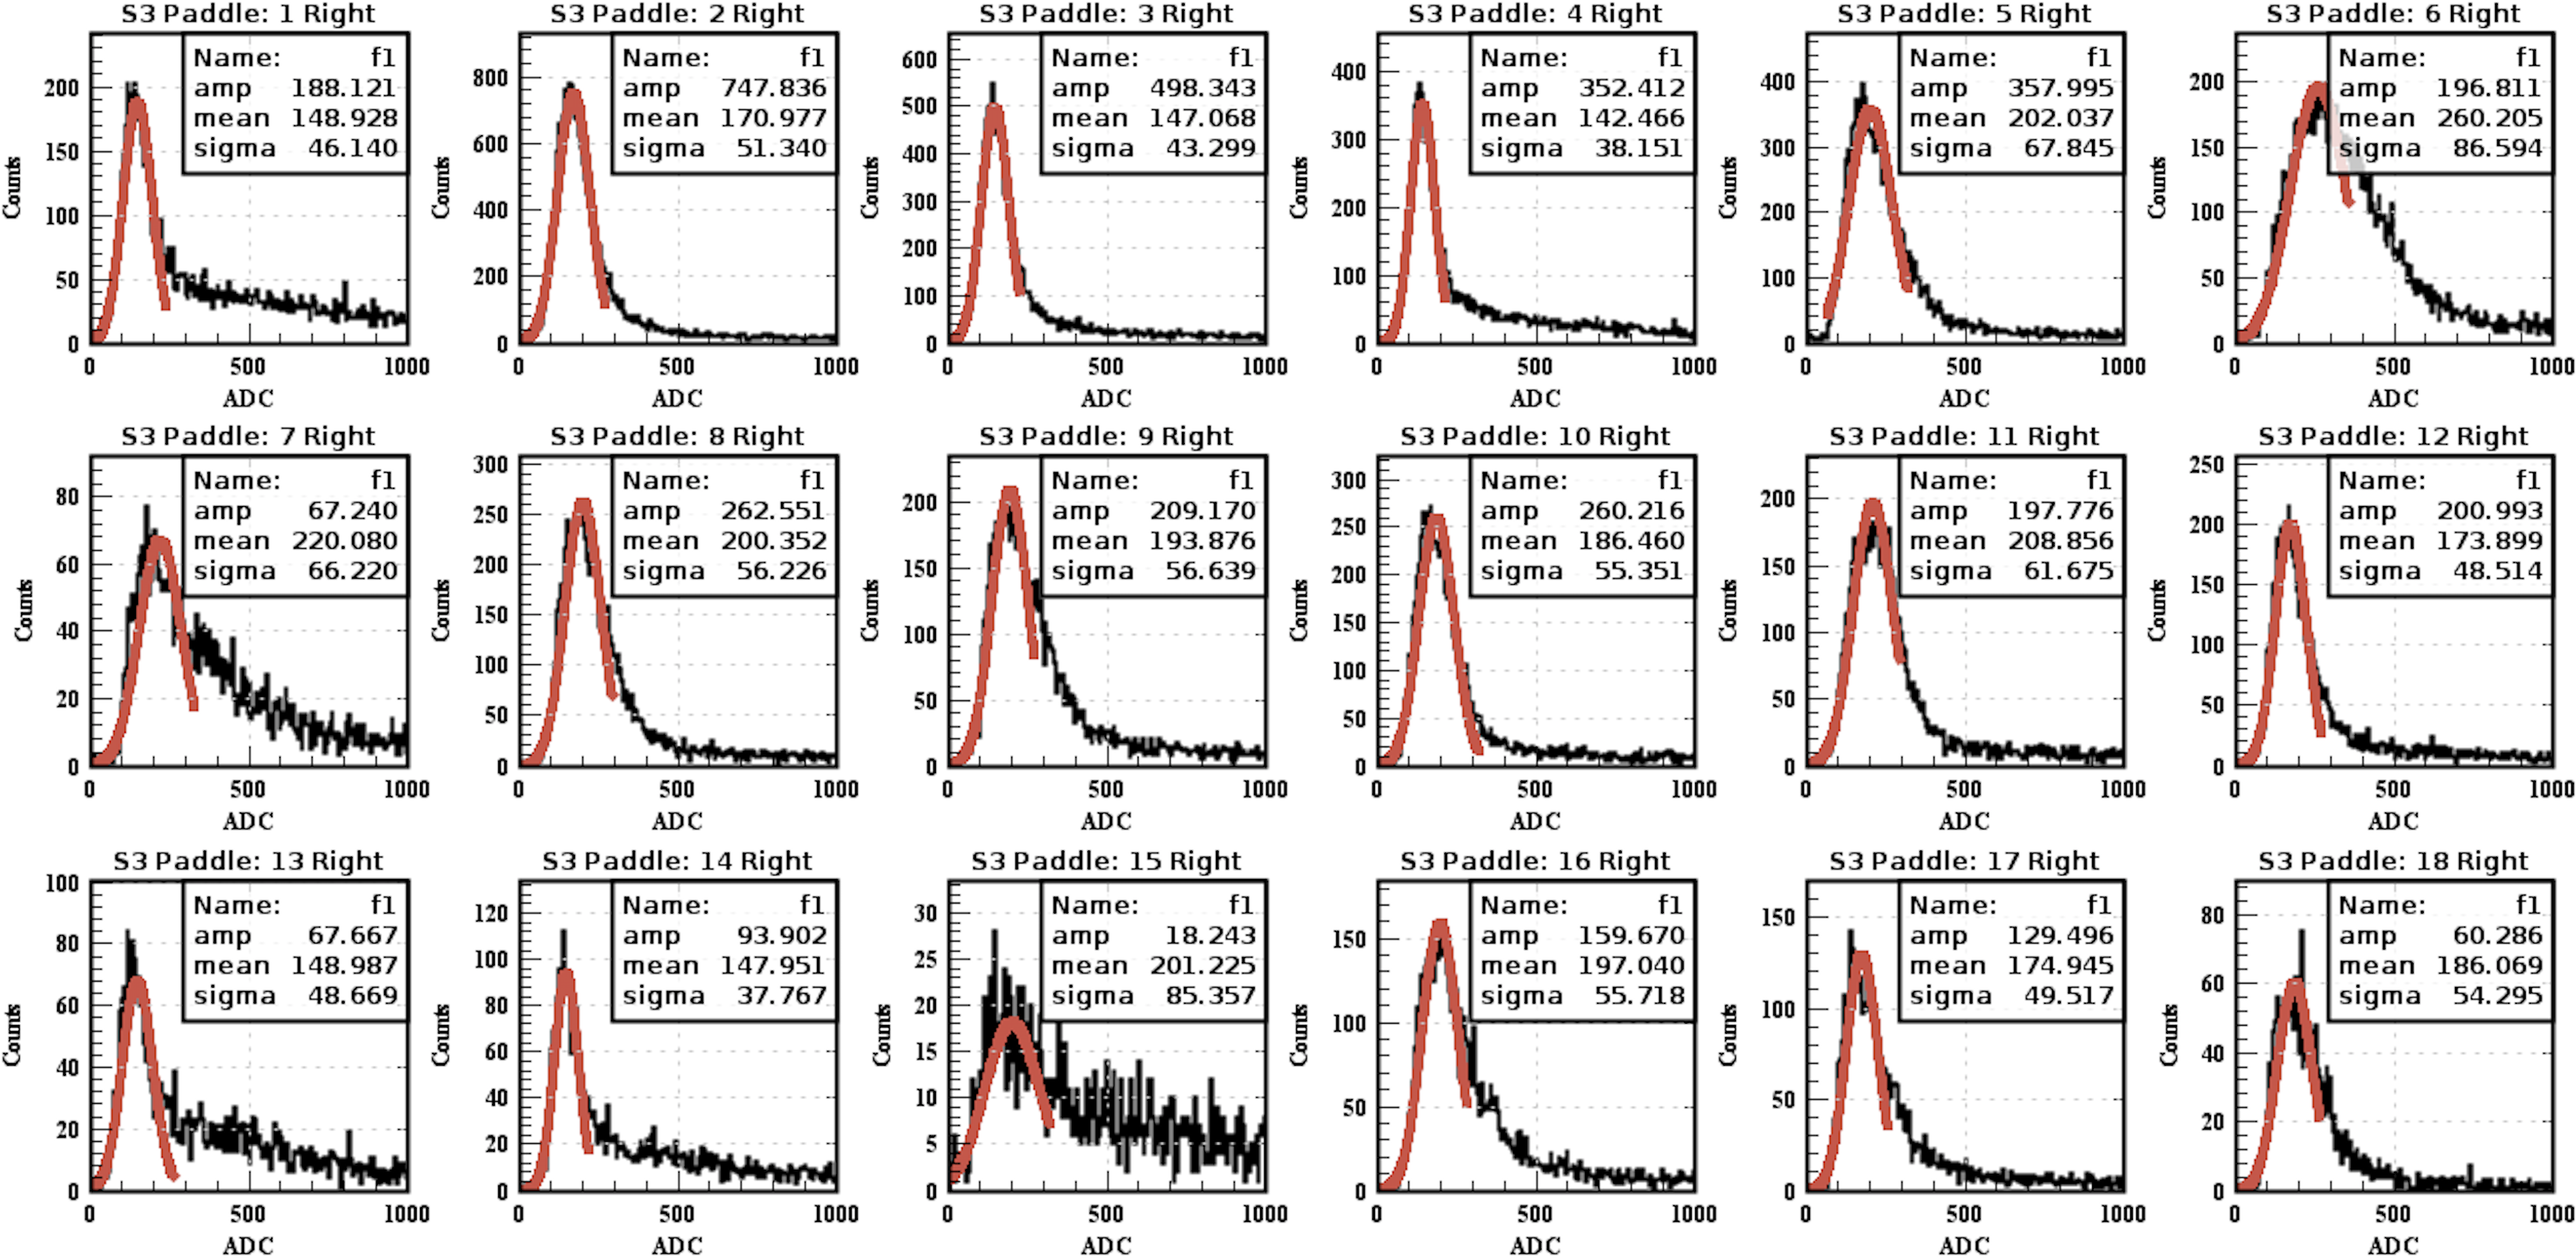
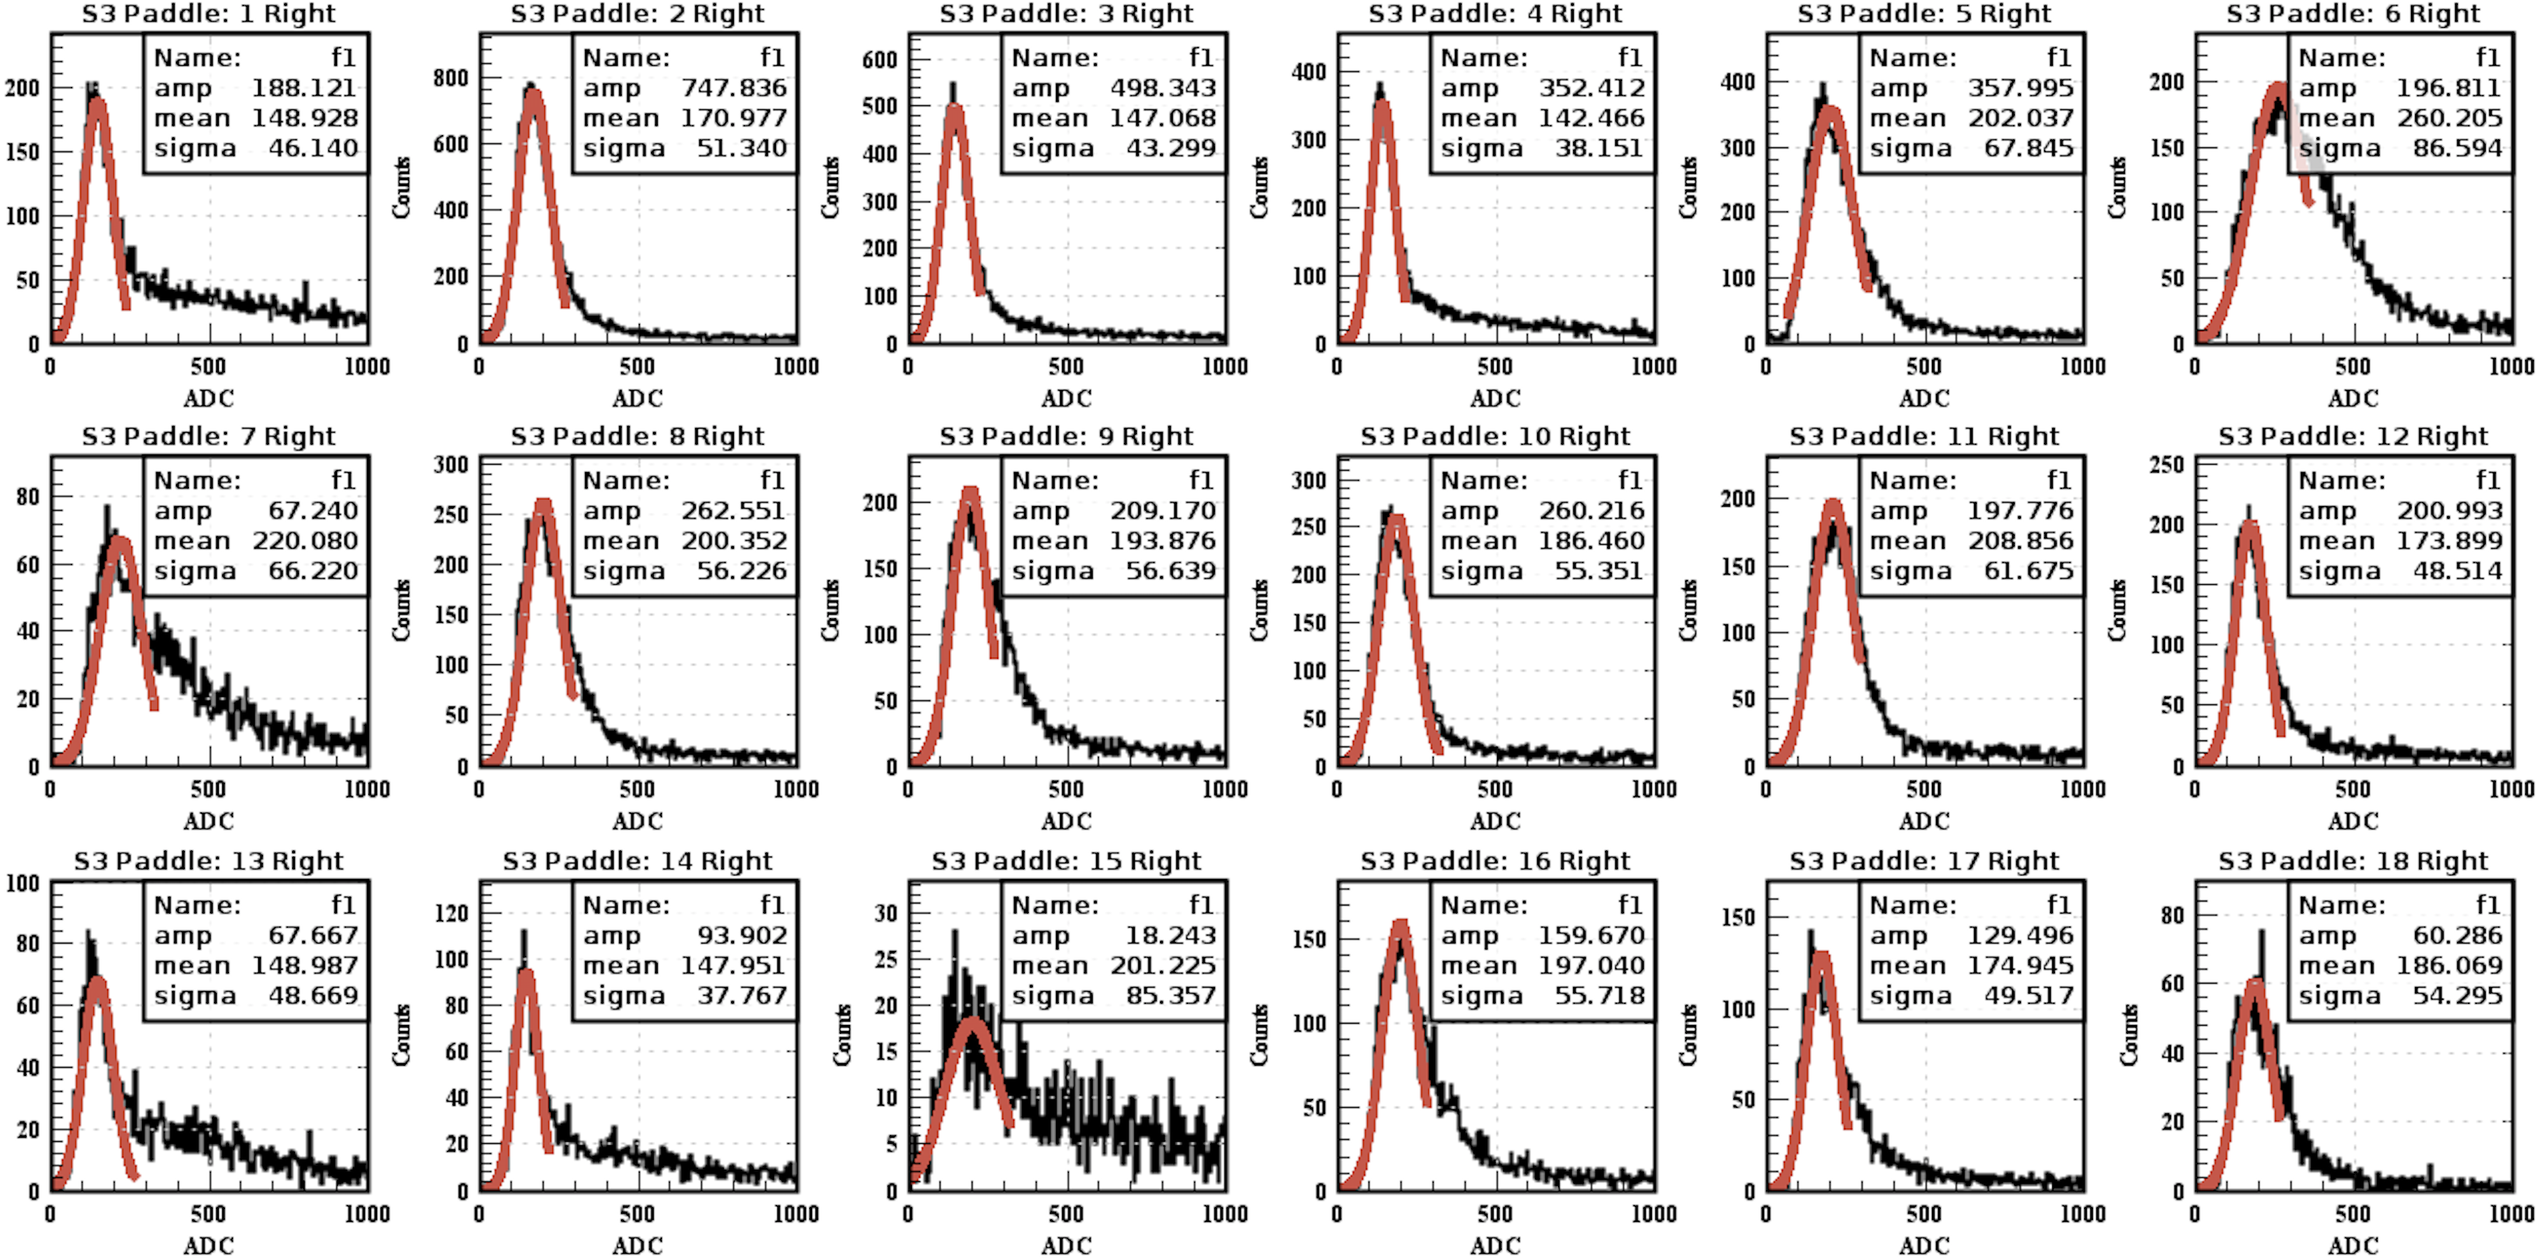
better pics, selecting 2D plots for right side, calibration section corrections

Changed region(s): [[0.0, 0.0, 0.9946, 1.0], [0.9325, 0.2151, 0.9946, 0.2765]]

diff --git a/ltcc/calibration.tex b/ltcc/calibration.tex
@@ -5,27 +5,31 @@ The main reason for this is that the FADC250 thresholds and sampling acquisition
 
 \begin{figure*}
 	\centering
-	\includegraphics[width=1.99\columnwidth,keepaspectratio]{img/spe.png}
-	\caption{The LTCC sector 3 right side ADC spectra. Data is from the first production run. The SPE peak positions are fitted and the mean $ADC_M$
-            parameters are recorded in the calibration database. The reconstructed number of photo-electrons for the digitized ADC value is then ADC / $ADC_M$.}
+	\includegraphics[width=2.1\columnwidth,keepaspectratio]{img/spe.png}
+	\caption{The LTCC sector 3 right side ADC spectra. Data is from the first production run in spring 2018.
+             The SPE peak positions are fit with a gaussian function and the mean $ADC_M$ parameters are recorded in the calibration database.
+             The reconstructed number of photo-electrons for the digitized ADC value is then ADC / $ADC_M$. Some anomalous PMTs can be seen:
+             \#6 shows a larger than normal width (too large HV) and \# 15 shows smaller than normal signal to width ratio, probably due to PMT
+             hardware problems.}
 	\label{fig:speCalibration}
 \end{figure*}
 
-This was accomplished by using normal the experiment production dataset.
-A random trigger was saved in the data-stream using a pre-scale factor of 100.
-This data subset has the LTCC events with PMT noise above the FADC trigger, containing the Single Photo-electron signal (SPE).
+This gain calibration was carried out by using data with an electron beam incident on the experiment target.
+A random trigger was saved in the data-stream at a rate of 100Hz.
+This data subset includes LTCC events with PMT noise above the FADC pedestal, containing the single Photo-electron signal (SPE).
 
-The spectra (see for \F{speCalibration} for typical histograms) were fitted to identify the SPE peak positions.
-At the beginning of each experiment the PMT high voltage were modified to align the peak positions
+The ADC spectra (see for \F{speCalibration} for typical histograms) were fit to identify the SPE peak positions.
+At the beginning of each experiment the PMT high voltages are adjusted to align the peak positions
 to a particular ADC value of $ADC_M = 200$. An example of gain matching is shown in \F{gainMatching}.
 
 
-\begin{figure}
+\begin{figure}[h]
 	\centering
-	\includegraphics[width=0.95\columnwidth,keepaspectratio]{img/gainMatchingBefore.png}
-	\includegraphics[width=0.95\columnwidth,keepaspectratio]{img/gainMatchingAfter.png}
-\caption{The LTCC sector 3 left side PMT occupancies for each of the PMT as a function of channel. Data is from the first production run. Top: before gain matching
-		   several channels do not show a SPE peak position at  $ADC_M = 200$. Bottom: after gain matching the PMT responses are more aligned.}
+	\includegraphics[width=0.99\columnwidth,keepaspectratio]{img/gainMatchingBefore.png}
+	\includegraphics[width=0.99\columnwidth,keepaspectratio]{img/gainMatchingAfter.png}
+	\caption{Plot of PMT \# vs ADC for he LTCC sector 3 right side PMTs. Data is from the first production
+             run in spring 2018. Top: before gain matching several channels do not show a SPE peak position at  $ADC_M = 200$.
+             Bottom: after gain matching the PMT responses are well aligned.}
 	\label{fig:gainMatching}
 \end{figure}
 

diff --git a/ltcc/box.tex b/ltcc/box.tex
@@ -9,8 +9,8 @@ drilled in the frame and the old holes were plugged and sealed.
 	\centering
 	\includegraphics[width=1.0\columnwidth, height=0.75\columnwidth]{img/boxCut.png}
 	\caption{The refurbished LTCC box frame. Originally the frame walls had a 5m radius sphere centered on the target profile.
-            The side-walls had to be cut near the top part of the box and the three mirror sets involved had to be relocated.
-				At the bottom of the box, a stainless steel nose window support was added to the original detector to increase the gas volume.}
+            The side-walls had to be cut near the top part of the frame and the three mirror sets involved had to be relocated.
+			A stainless steel nose window support was added to the original detector to increase the gas volume.}
 	\label{fig:boxCut}
 \end{figure}
 
@@ -43,7 +43,7 @@ As part of the back-wall refurbishment, the patch panel was rebuilt and hermetic
 The new back wall design is shown in \F{backWall}. The wall is supported by stainless steel bars that enclose a panel made of foam enclosed by
 thin aluminum sheets to minimize the radiation length.
 The new patch panels provide 3 connectors for each PMT: one for high voltage and two for an identical signal coming from the modified PMT base.
-One signal is digitized through a flash ADC and the other one through a discriminator TDC.
+One signal is digitized through a flash ADC and the other one through a discriminator and TDC.
 
 \begin{figure}
 	\centering
@@ -63,7 +63,7 @@ It was attached to the box nose and the back-wall. The spine was rigid and broke
 (of the order of 0.5 cm) deformations of the box when it was transported and/or installed.
 A new carbon fiber spine, see \F{spine}, was designed capable of floating up to 1 cm, effectively compensating
 for the non-rigid movements of the box.
-The mirrors are linked to the spine through stainless steel cables 0.127 mm thick.
+The mirrors are linked to the spine through stainless steel cables 0.127-mm thick.
 The cables are anchored with stainless steel springs with tension varying from 0.5 to 1 kg.
 The spine was tested by mounting a laser on the box. The laser line was focused through the elliptical
 and hyperbolic mirrors to a target in the middle of the covered face of a PMT.
@@ -77,7 +77,7 @@ compensated for the box wall deformations.
 	\includegraphics[width=1.0\columnwidth,keepaspectratio]{img/spine.png}
 	\caption{The LTCC mirror support spine. The carbon fiber tube (in black) is allowed to float up to 1 cm to compensate
              for possible box deformation during the detector transportation and installation. The mirrors are linked to
-             the spine through stainless steel cables 0.127 mm thick and tensioned through springs.}
+             the spine through stainless steel cables 0.127-mm thick and tensioned through springs.}
 	\label{fig:spine}
 \end{figure}
 

diff --git a/ltcc/mirrors.tex b/ltcc/mirrors.tex
@@ -83,7 +83,7 @@ The typical reflectivity of the refurbished mirrors is shown in \F{reflectivityB
 
 The LTCC elliptical mirrors, especilly the longest ones, presented several gaps between the mirrors, some a few cm long.
 This was evident also in the data analyses as a loss of efficiency between the mirrors.
-To make sure that no light is lost in these gaps, additional 120 $\mu$m thick Lexan extension strips were produced and coated with AlMgF$_2$.
+To make sure that no light is lost in these gaps, additional 120-$\mu$m thick Lexan extension strips were produced and coated with AlMgF$_2$.
 These strips were manufactured by ECI~\cite{ECI}. They were fitted and glued on left side elliptical mirrors to cover the gaps,
 see \F{gapBeforeAndAfter}.
 
